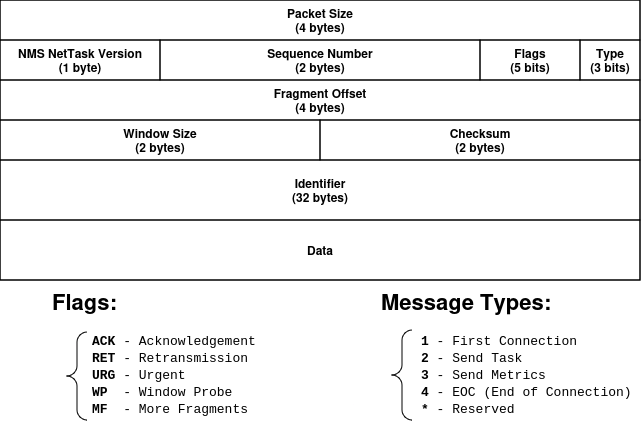
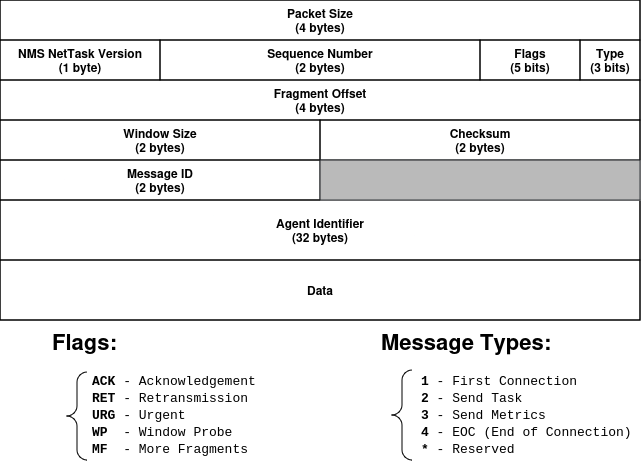
Add message id to net task header

diff --git a/protocol/net_task.py b/protocol/net_task.py
@@ -10,6 +10,7 @@ import struct
 # - Fragment Offset ( 4 bytes)
 # - Window size     ( 2 bytes)
 # - Checksum        ( 2 bytes)
+# - Message ID      ( 2 bytes)
 # - Identifier      (32 bytes) [Default: UTF-8]
 # - Data            ( N bytes) [Default: UTF-8] [If ACK: ACK seq. number]
 
@@ -45,12 +46,13 @@ SIZE_FLAGS_TYPE  = 1
 SIZE_FRAGMENT    = 4
 SIZE_WINDOW_SIZE = 2
 SIZE_CHECKSUM    = 2
+SIZE_MSG_ID      = 2
 SIZE_IDENTIFIER  = 32
 
 # Header total size
 HEADER_SIZE = (SIZE_PACKET_SIZE + SIZE_NMS_VERSION + SIZE_SEQ_NUMBER +
                SIZE_FLAGS_TYPE + SIZE_FRAGMENT + SIZE_WINDOW_SIZE +
-               SIZE_CHECKSUM + SIZE_IDENTIFIER)
+               SIZE_CHECKSUM + SIZE_MSG_ID + SIZE_IDENTIFIER)
 
 # Struct format for the header fields
 # !    network (big-endian) byte order
@@ -58,7 +60,7 @@ HEADER_SIZE = (SIZE_PACKET_SIZE + SIZE_NMS_VERSION + SIZE_SEQ_NUMBER +
 # H    unsigned short      (2 bytes)
 # I    unsigned int        (4 bytes)
 # Xs   string with X chars (X bytes)
-STRUCT_FORMAT = '!I B H B I H H 32s'
+STRUCT_FORMAT = '!I B H B I H H H 32s'
 
 
 ###
@@ -75,18 +77,15 @@ class NetTask:
     def __init__(self, constants):
         self.C = constants
 
-    # Exclude the checksum field from the header and calculate the checksum
-    # TODO make checksum of the total packet as this method is used
-    # when checksum field is padded with 0
+    # Calculate the checksum of a packet, padding the checksum field with 0
     @staticmethod
     def calculate_checksum(packet):
-        # Extract the header without the checksum field plus the data
         checksum_start = (SIZE_PACKET_SIZE + SIZE_NMS_VERSION + SIZE_SEQ_NUMBER +
                           SIZE_FLAGS_TYPE + SIZE_FRAGMENT + SIZE_WINDOW_SIZE)
         checksum_end = checksum_start + SIZE_CHECKSUM
         data = packet[:checksum_start] + packet[checksum_end:]
 
-        # Calculate a 16-bit checksum of the data
+        # Calculate a 16-bit checksum of the packet
         checksum = 0
         for i in range(0, len(data), 2):
             part = data[i:i + 2]
@@ -118,13 +117,14 @@ class NetTask:
                 raise InvalidVersionException(version, self.C.NET_TASK_VERSION)
 
             packet_size, version, seq_number, flags_type, fragment_offset, \
-                window_size, checksum, identifier = struct.unpack(STRUCT_FORMAT, header)
+                window_size, checksum, msg_id, identifier = struct.unpack(STRUCT_FORMAT, header)
 
         except Exception:
             raise InvalidHeaderException()
 
         # Checksum validation
         if self.calculate_checksum(packet) != checksum:
+            print(f"Checksum mismatch: {self.calculate_checksum(packet)} != {checksum}")
             raise ChecksumMismatchException()
 
         # Parse flags and message type
@@ -155,6 +155,7 @@ class NetTask:
                 "fragment_offset": fragment_offset,
                 "window_size": window_size,
                 "checksum": checksum,
+                "msg_id": msg_id,
                 "identifier": identifier.decode(self.C.ENCODING),
                 "ack_number": int.from_bytes(data, byteorder='big')
             }
@@ -174,6 +175,7 @@ class NetTask:
             "fragment_offset": fragment_offset,
             "window_size": window_size,
             "checksum": checksum,
+            "msg_id": msg_id,
             "identifier": identifier.decode(self.C.ENCODING),
             "data": data.decode(self.C.ENCODING)
         }
@@ -207,6 +209,7 @@ class NetTask:
             fragment_offset,
             window_size,
             0,  # Placeholder/padding for checksum
+            seq_number,  # Message ID is the seq number of the packet
             identifier.encode(self.C.ENCODING)
         )
 
@@ -224,6 +227,7 @@ class NetTask:
             fragment_offset,
             window_size,
             checksum,
+            seq_number,  # Message ID is the seq number of the packet
             identifier.encode(self.C.ENCODING)
         )
 
@@ -255,6 +259,7 @@ class NetTask:
             0,  # Fragment offset
             window_size,
             0,  # Placeholder/padding for checksum
+            seq_number,  # Message ID is the seq number of the packet being acknowledged
             identifier.encode(self.C.ENCODING)
         )
 
@@ -273,11 +278,13 @@ class NetTask:
             0,  # Fragment offset
             window_size,
             checksum,
+            seq_number,  # Message ID is the seq number of the packet being acknowledged
             identifier.encode(self.C.ENCODING)
         )
 
         # Return the ack packet with the checksum included in the header
-        return header + packet["seq_number"].to_bytes(2, byteorder='big')
+        return header + ack_number
+
 
 ###
 # Exceptions TODO merge with AlertFlow exceptions
